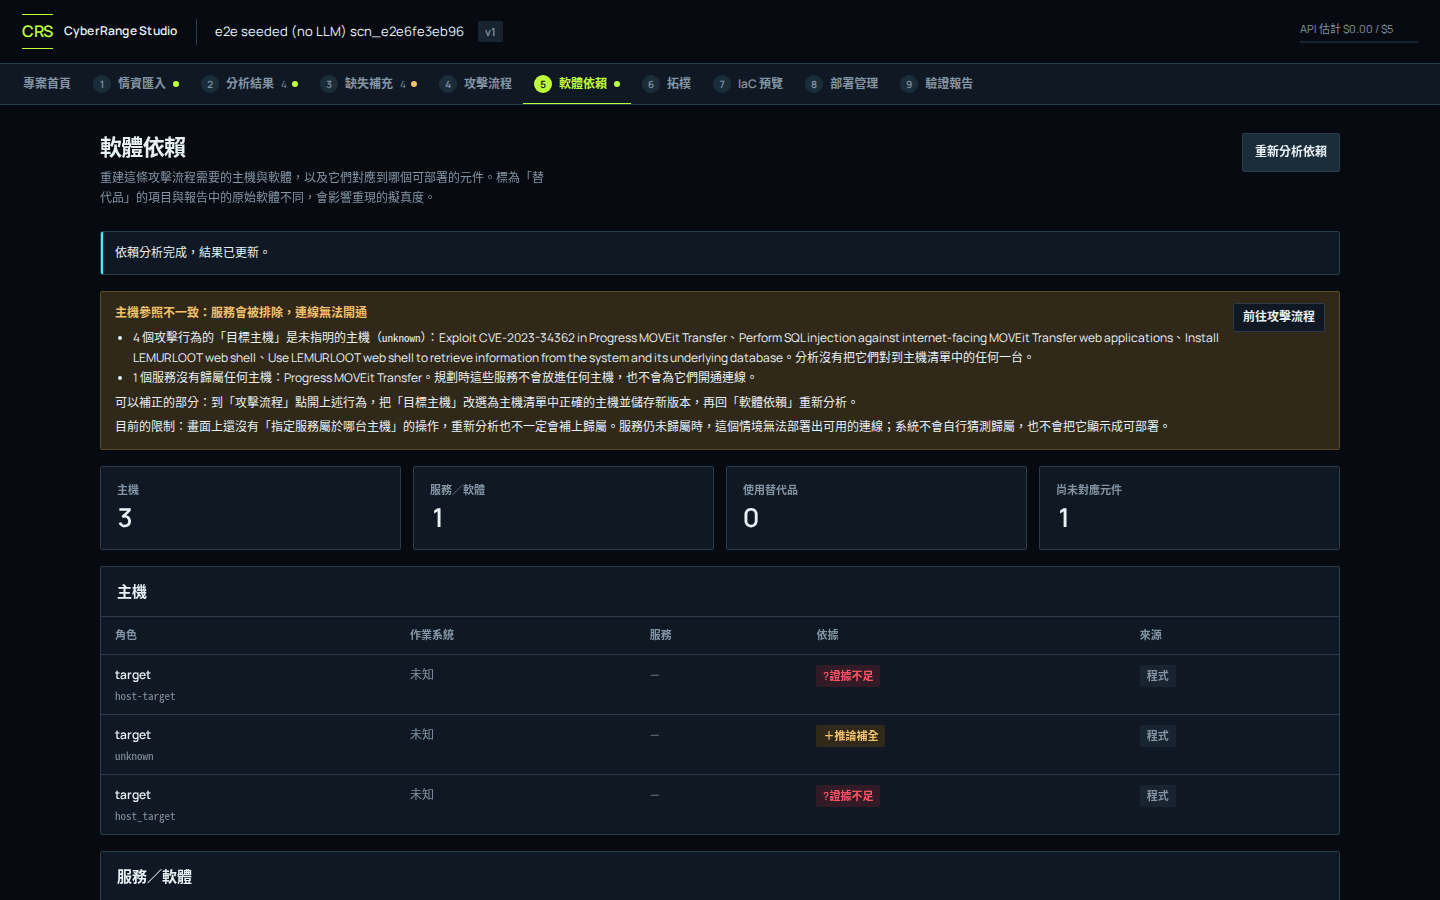
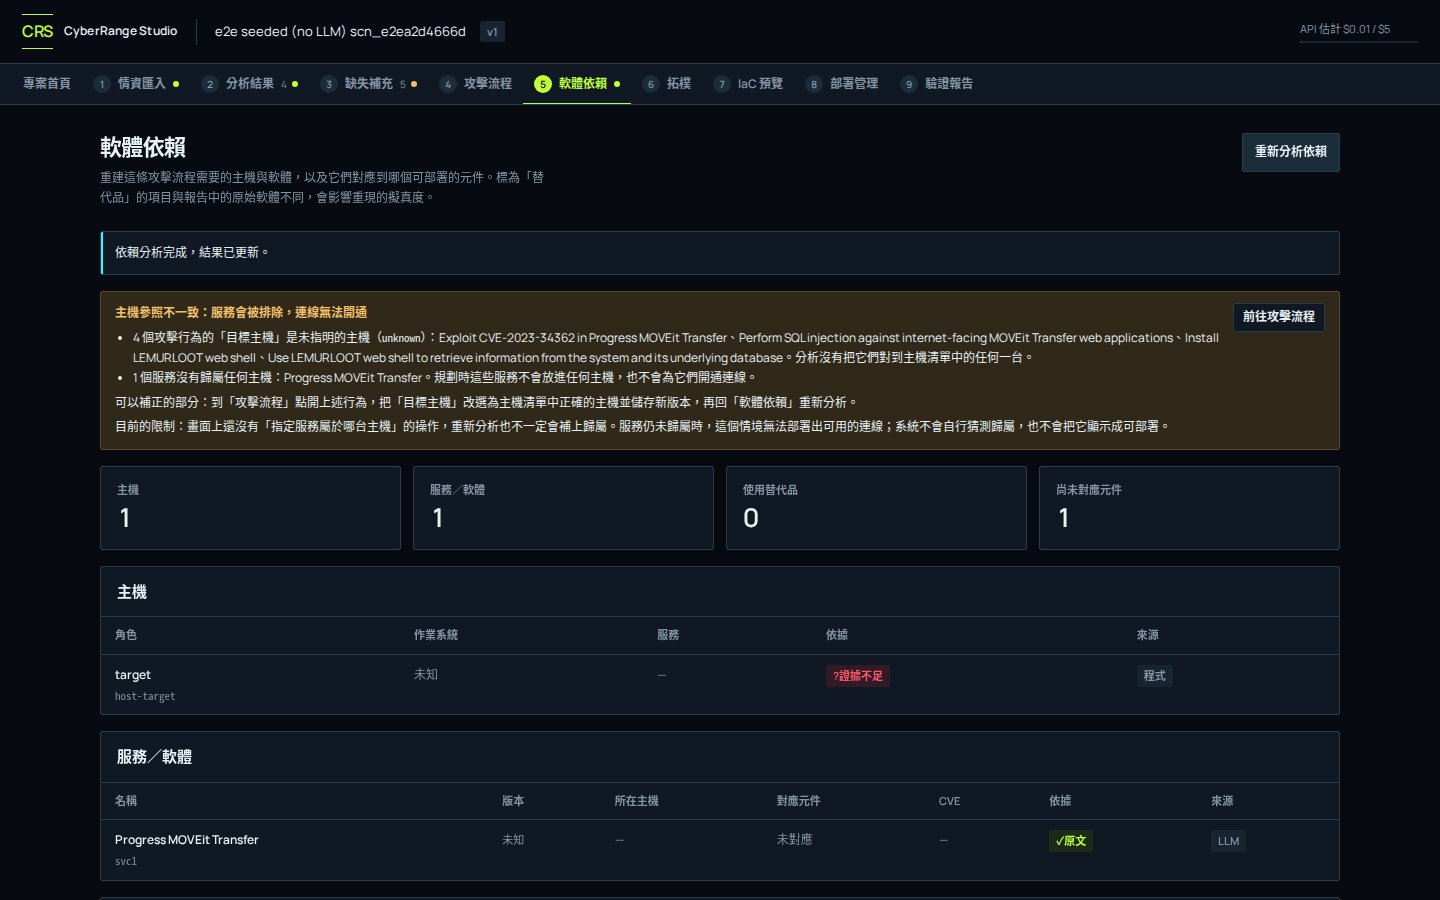
e2e: accept-unknown test checks stored state instead of count delta; report + full e2e evidence

diff --git a/reports/overnight/worker-reports/frontend-eng.md b/reports/overnight/worker-reports/frontend-eng.md
@@ -54,7 +54,29 @@ CR_ENV_FILE=/home/tyc4d/cr-project/.env CR_BUDGET_HARD_CAP_USD=5 CR_BUDGET_STOP_
 - 流程儲存新版本後，舊拓樸仍顯示「已核准」、啟動可用（admin 里程碑 5）。前端無法判斷規劃是否過期：`environment_plan` 沒有記錄它是由哪個 `ir_version` 產生的。若後端在規劃上加這個欄位，前端可顯示「規劃已過期，請重新規劃」。**此項未修。**
 - EI-05（補件沒有套用到主機規格）、EI-02（主機角色被合併）、EI-07／EI-08（關係無依據、引句逐字標示）屬分析／後端資料問題，前端未遮掩、未處理。
 
+## 批次 3（commit 1935a6d）
+
+- 缺失卡片沒有中文問題時，標題改為「類別相關資訊：<原始欄位名>（後端未提供中文問題…）」，不再只顯示看不出在問什麼的佔位字（qa-ux 里程碑二）。未 e2e 驗證（測試情境沒有這種項目）。
+- 缺失頁在尚未執行依賴分析時提示「清單可能還不完整」（qa-ux Medium）。
+- 部署 up／down 失敗時只顯示一次原因＋結束代碼，完整輸出收合（qa-admin 里程碑 9：同一段 stderr 重複多次把目前狀態擠到下面）。**未以真實失敗驗證**。
+
+## 完整 `npm run e2e` 結果（未通過）
+
+| 執行 | 後端 | 結果 |
+|---|---|---|
+| 第 1 次 | 本分支原本的後端（= main d4a5482） | 8 passed／1 failed／1 未執行 |
+| 第 2 次 | 依 Lead 指示合併 `agent/scenario-eng`（8aa5246）後，merge commit ec09258 | 7 passed／2 failed／1 未執行 |
+| 修正自己的測試後只跑 `qa-fixes motion` | 同上 | 8 passed |
+
+- 兩次都失敗的是 `full-flow` 的 `topology-plan`：斷言「開通連線 > 0」，實際 0。合併後原因變了：不再是「服務沒有主機歸屬」，而是規劃備註寫「服務 web service (s1)、database service (s2) 埠號未知，預設不通」「已確認依賴 r4、r5 無法唯一對應目的服務埠」。IR 中 `h1`、`h2` 的 `service_refs` 仍是空的，兩個服務沒有 port。情境 `scn_9da8286ecc8f`（在我的 `.data`）。因此「部署、驗證、報告、清理」那一段**沒有執行**。
+- 我沒有修改 `full-flow.spec.ts` 的斷言。
+- 第 2 次多出的失敗是我自己的測試：新後端在補件回應裡會新增一筆後續問題（`missing-service-svc1-version`），所以「待補充數 −1」不成立。已改成比對後端實際狀態（該項為 accepted_unknown、頁面數字等於後端 open 數），不是放寬成功條件。
+- 合併後後端單元測試：`93 passed`。
+- 證據：`reports/overnight/evidence/frontend-eng/full-e2e/`（兩次的輸出、run-log、失敗截圖）。
+- 注意：本分支現在含 scenario-eng 的提交（merge ec09258），整合時請留意。
+
 ## 尚未完成
 
-- 完整 `npm run e2e`（full-flow，真實 LLM＋Docker）執行中／待補結果。
+- 完整 `npm run e2e` 尚未通過（見上）；部署／驗證段在本輪從未被 e2e 執行到。
+- 流程頁 1280×720 展開設計檢查時圖例／縮放列／minimap 重疊（qa-ux）：未處理。
 - 422 白話訊息、部署紀錄原因兩項沒有 e2e 覆蓋。
